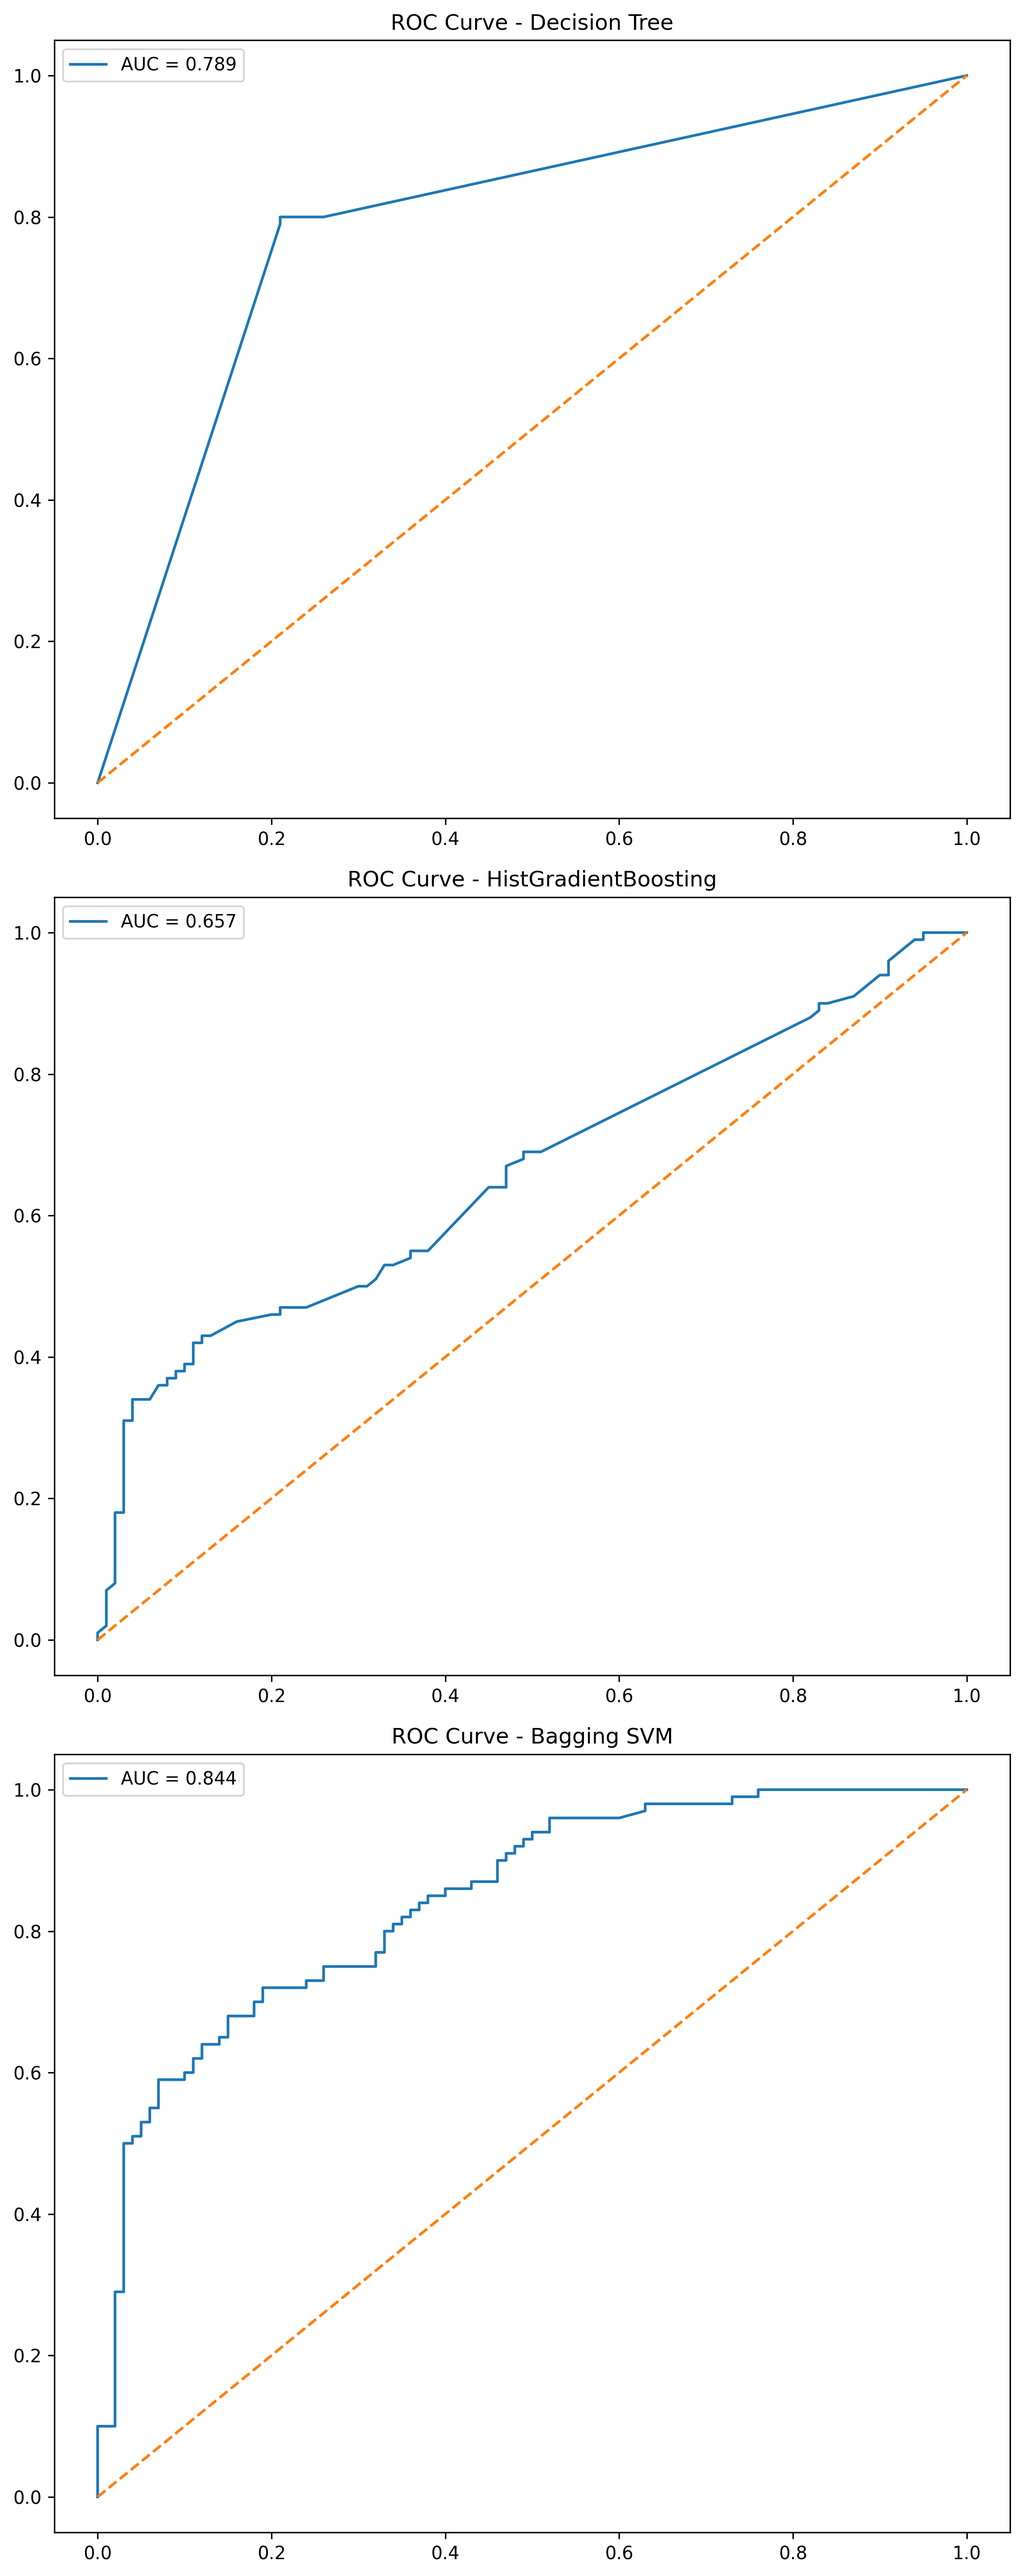
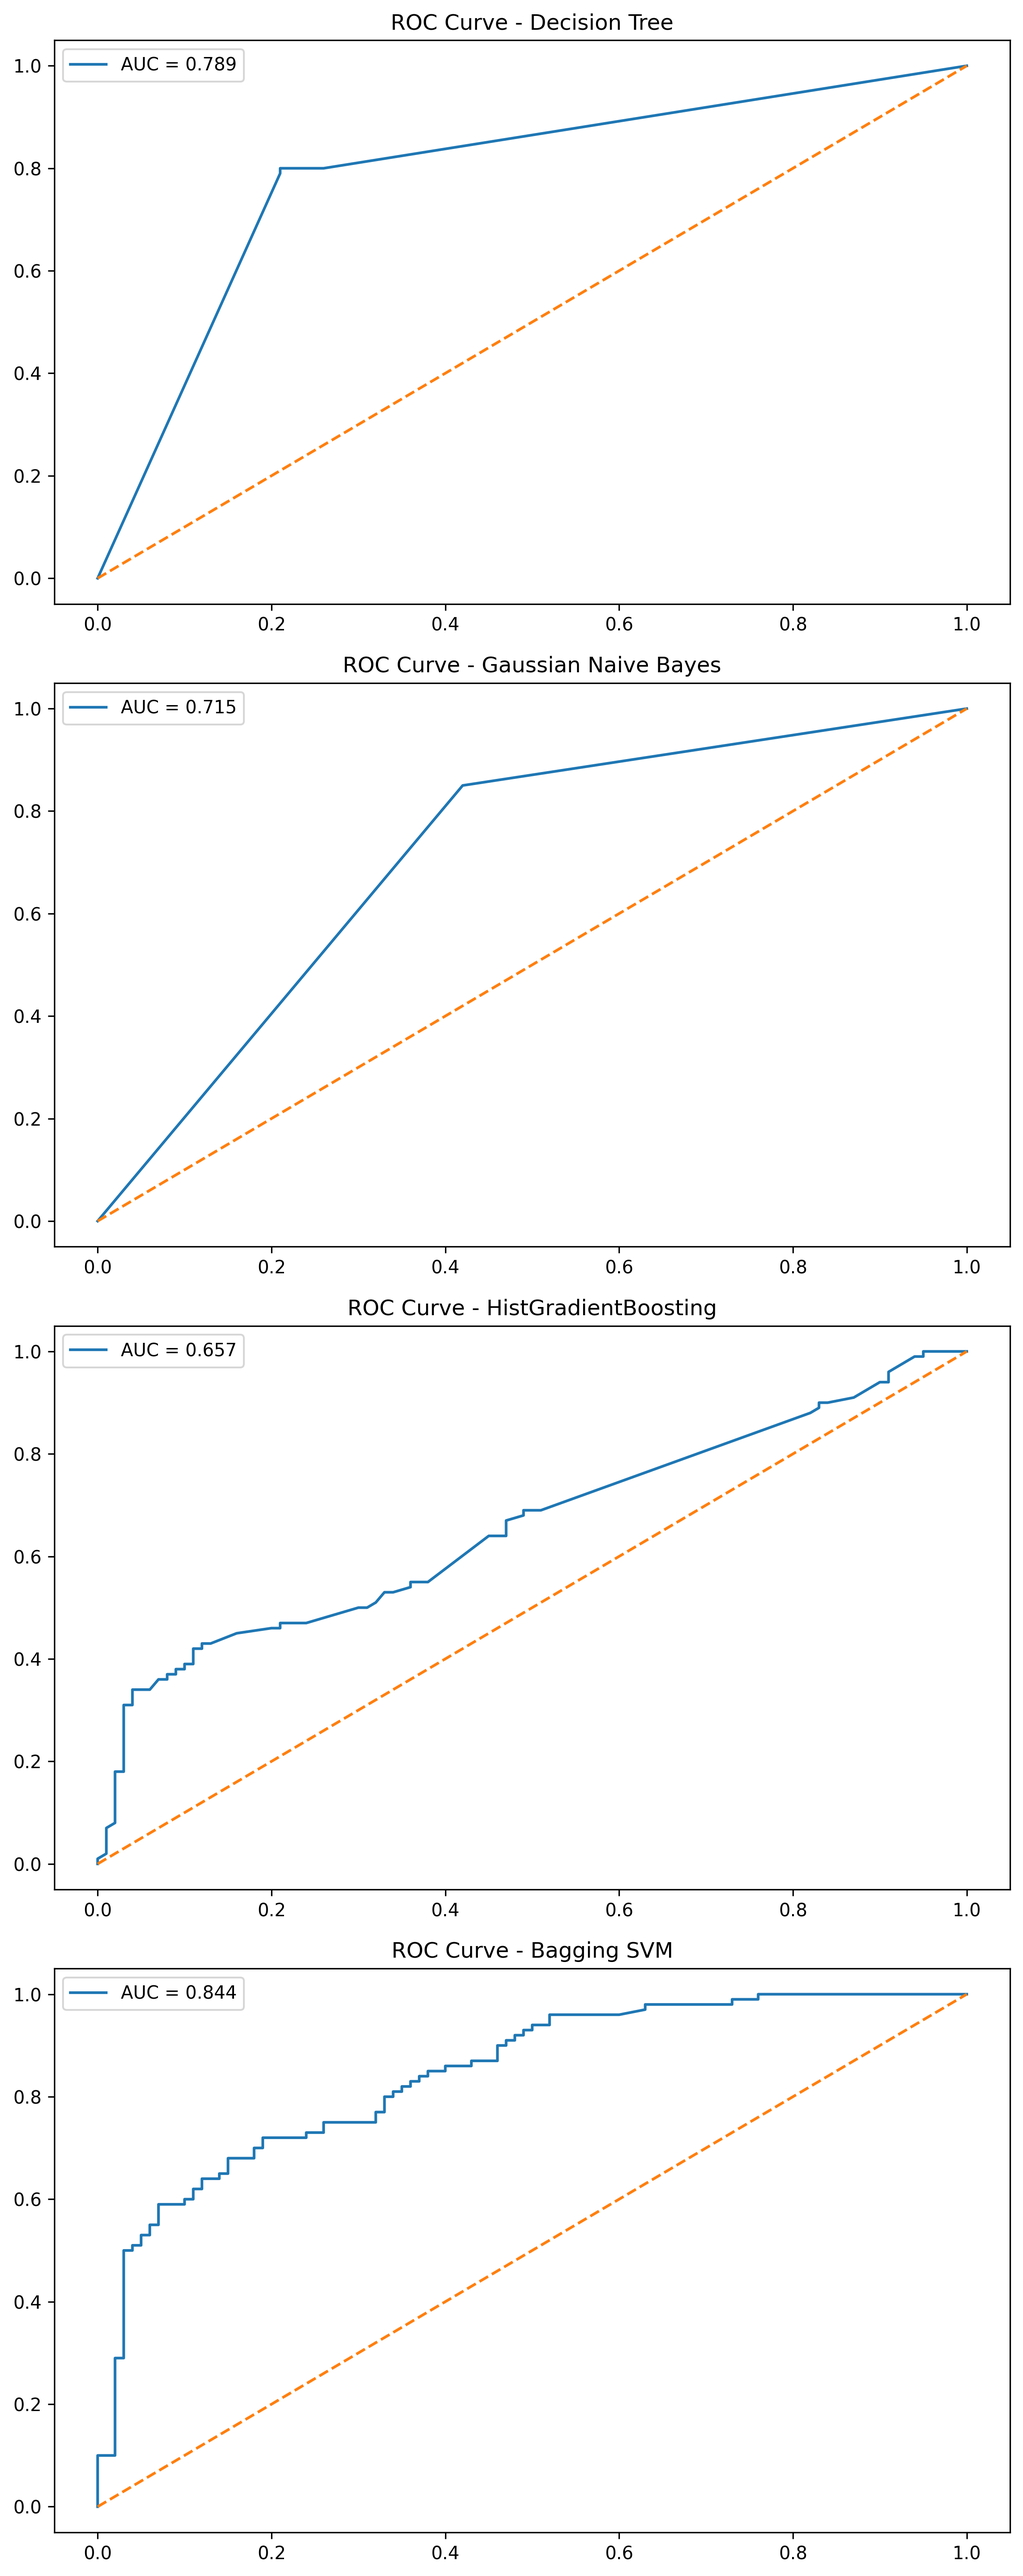
Made few modification

diff --git a/Python/Sentiment Analysis/BOW/BOW_MAIN.py b/Python/Sentiment Analysis/BOW/BOW_MAIN.py
@@ -14,7 +14,7 @@ from nltk.stem import WordNetLemmatizer
 from sklearn.feature_extraction.text import CountVectorizer
 from sklearn.model_selection import train_test_split, cross_val_score
 
-from sklearn.naive_bayes import MultinomialNB
+from sklearn.naive_bayes import GaussianNB
 from sklearn.tree import DecisionTreeClassifier
 from sklearn.ensemble import HistGradientBoostingClassifier
 from sklearn.ensemble import BaggingClassifier
@@ -144,6 +144,7 @@ print("Test Shape :", X_test_bow.shape)
 # ==========================================
 # Models
 # ==========================================
+# Models
 models = {
 
     "Decision Tree":
@@ -151,6 +152,9 @@ models = {
         criterion="entropy",
         random_state=42
     ),
+
+    "Gaussian Naive Bayes":
+    GaussianNB(),
 
     "HistGradientBoosting":
     HistGradientBoostingClassifier(
@@ -181,7 +185,7 @@ fig, axes = plt.subplots(
 for i, (name, model) in enumerate(models.items()):
 
     # HistGradientBoosting requires dense matrix
-    if name == "HistGradientBoosting":
+    if name in ["HistGradientBoosting", "Gaussian Naive Bayes"]:
 
         model.fit(
             X_train_bow.toarray(),
@@ -314,7 +318,7 @@ results_df = pd.DataFrame(
 
 # Save CSV
 results_df.to_csv(
-    "reports/model_results.csv",
+    "reports/model_comparision_results.csv",
     index=False
 )
 
